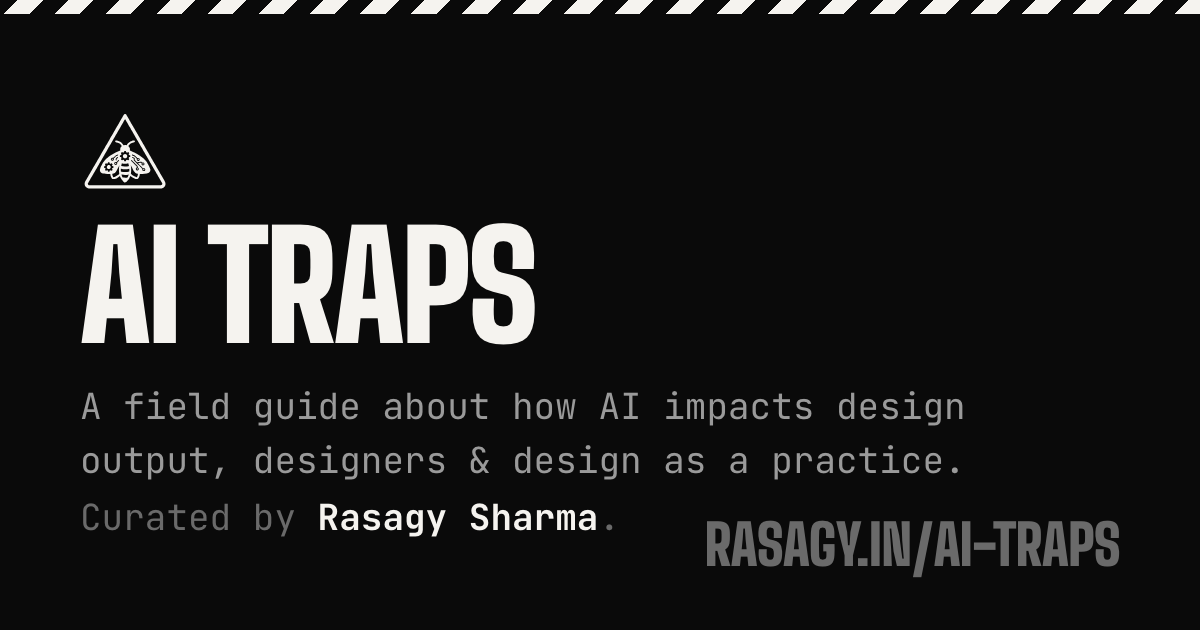
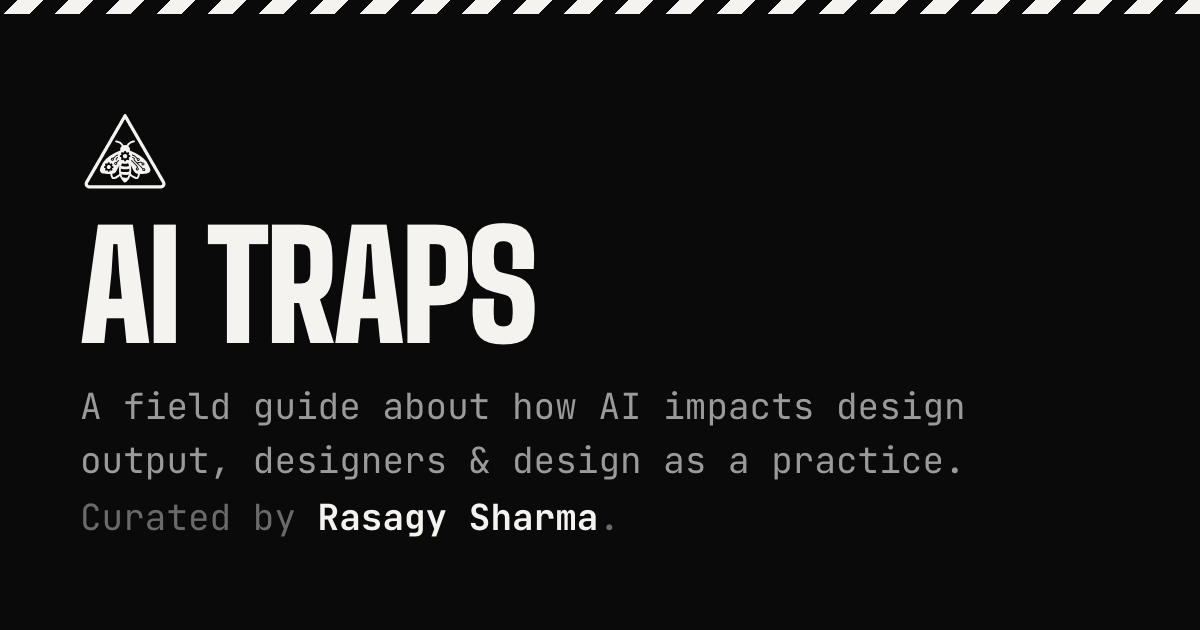
og image improved

Changed region(s): [[0.5858, 0.8143, 0.9558, 0.9048]]

diff --git a/playground/og-image.html b/playground/og-image.html
@@ -41,8 +41,8 @@
       width: 90px;
       height: 90px;
       background-color: #F5F3EF;
-      -webkit-mask: url('data/moth-icon.svg') center / contain no-repeat;
-      mask: url('data/moth-icon.svg') center / contain no-repeat;
+      -webkit-mask: url('../data/moth-icon.svg') center / contain no-repeat;
+      mask: url('../data/moth-icon.svg') center / contain no-repeat;
       margin-bottom: 24px;
     }
 
@@ -79,17 +79,6 @@
       font-weight: 700;
     }
 
-    .url {
-      position: absolute;
-      bottom: 52px;
-      right: 80px;
-      font-family: "Big Shoulders Display", Impact, sans-serif;
-      font-weight: 900;
-      font-size: 56px;
-      letter-spacing: -0.01em;
-      text-transform: uppercase;
-      color: #6A6A6A;
-    }
   </style>
 </head>
 <body>
@@ -102,6 +91,5 @@
       <p class="byline">Curated by <strong>Rasagy Sharma</strong>.</p>
     </div>
   </div>
-  <p class="url">rasagy.in/ai-traps</p>
 </body>
 </html>
